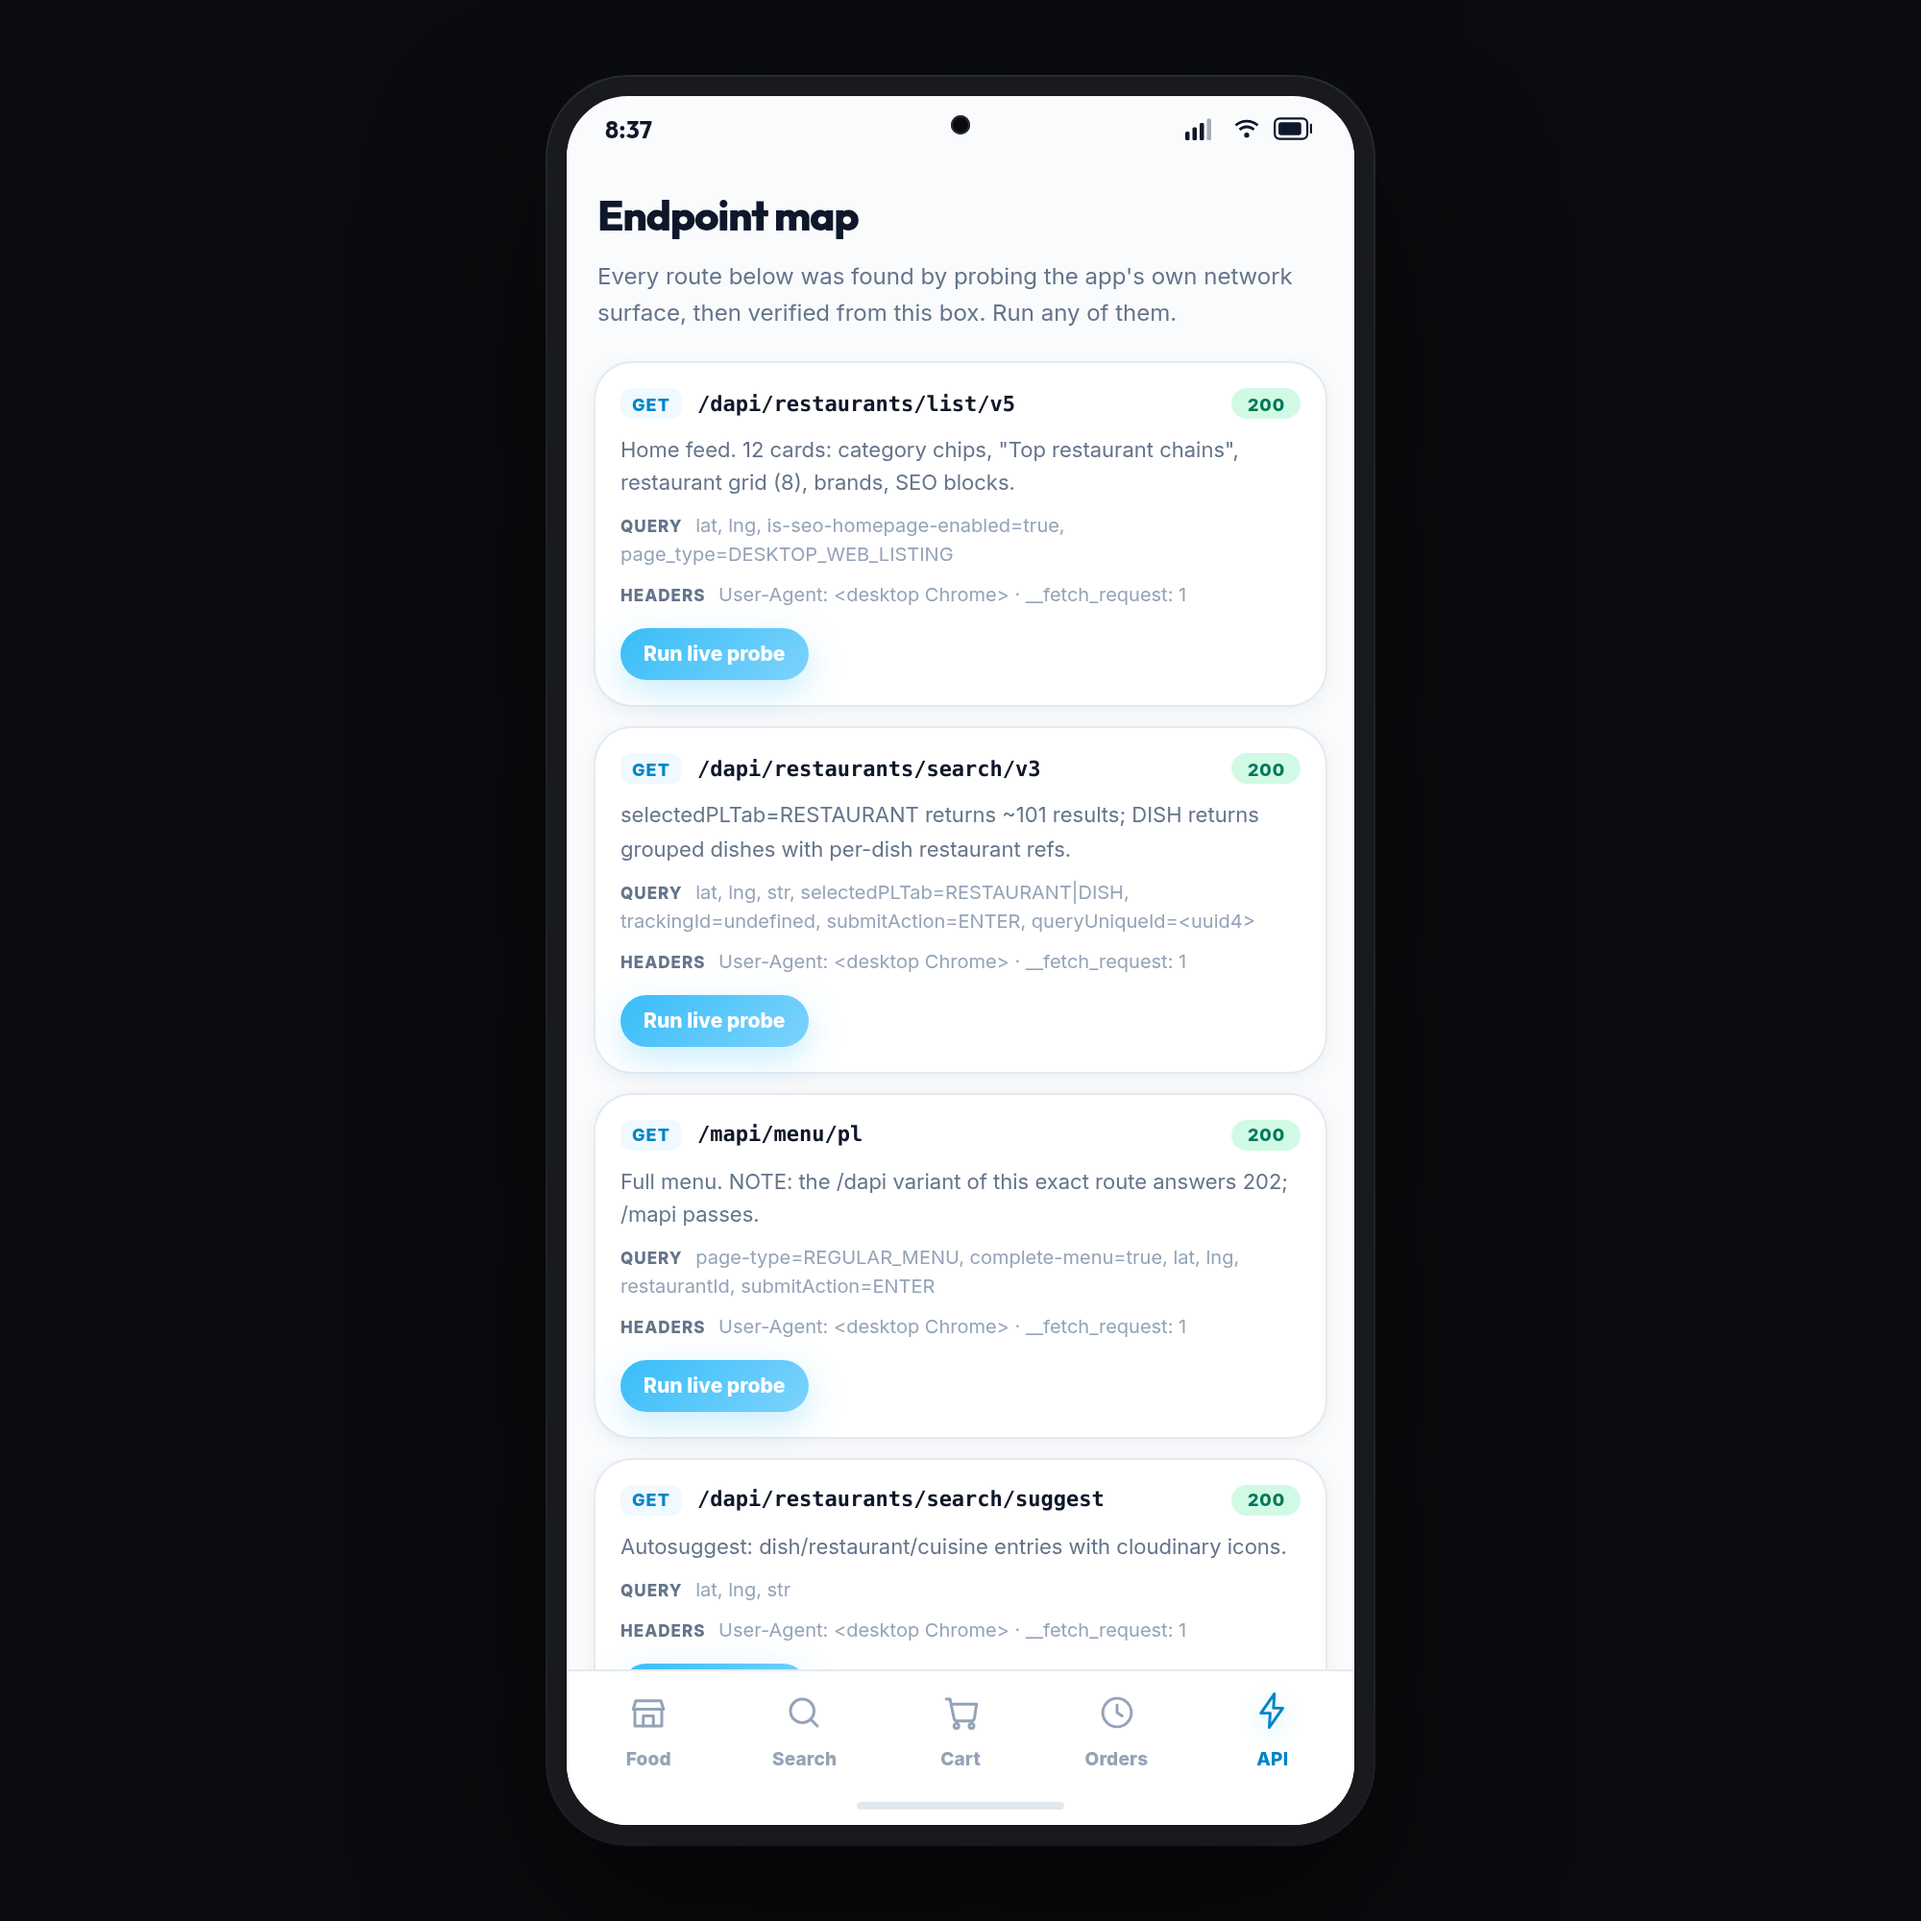
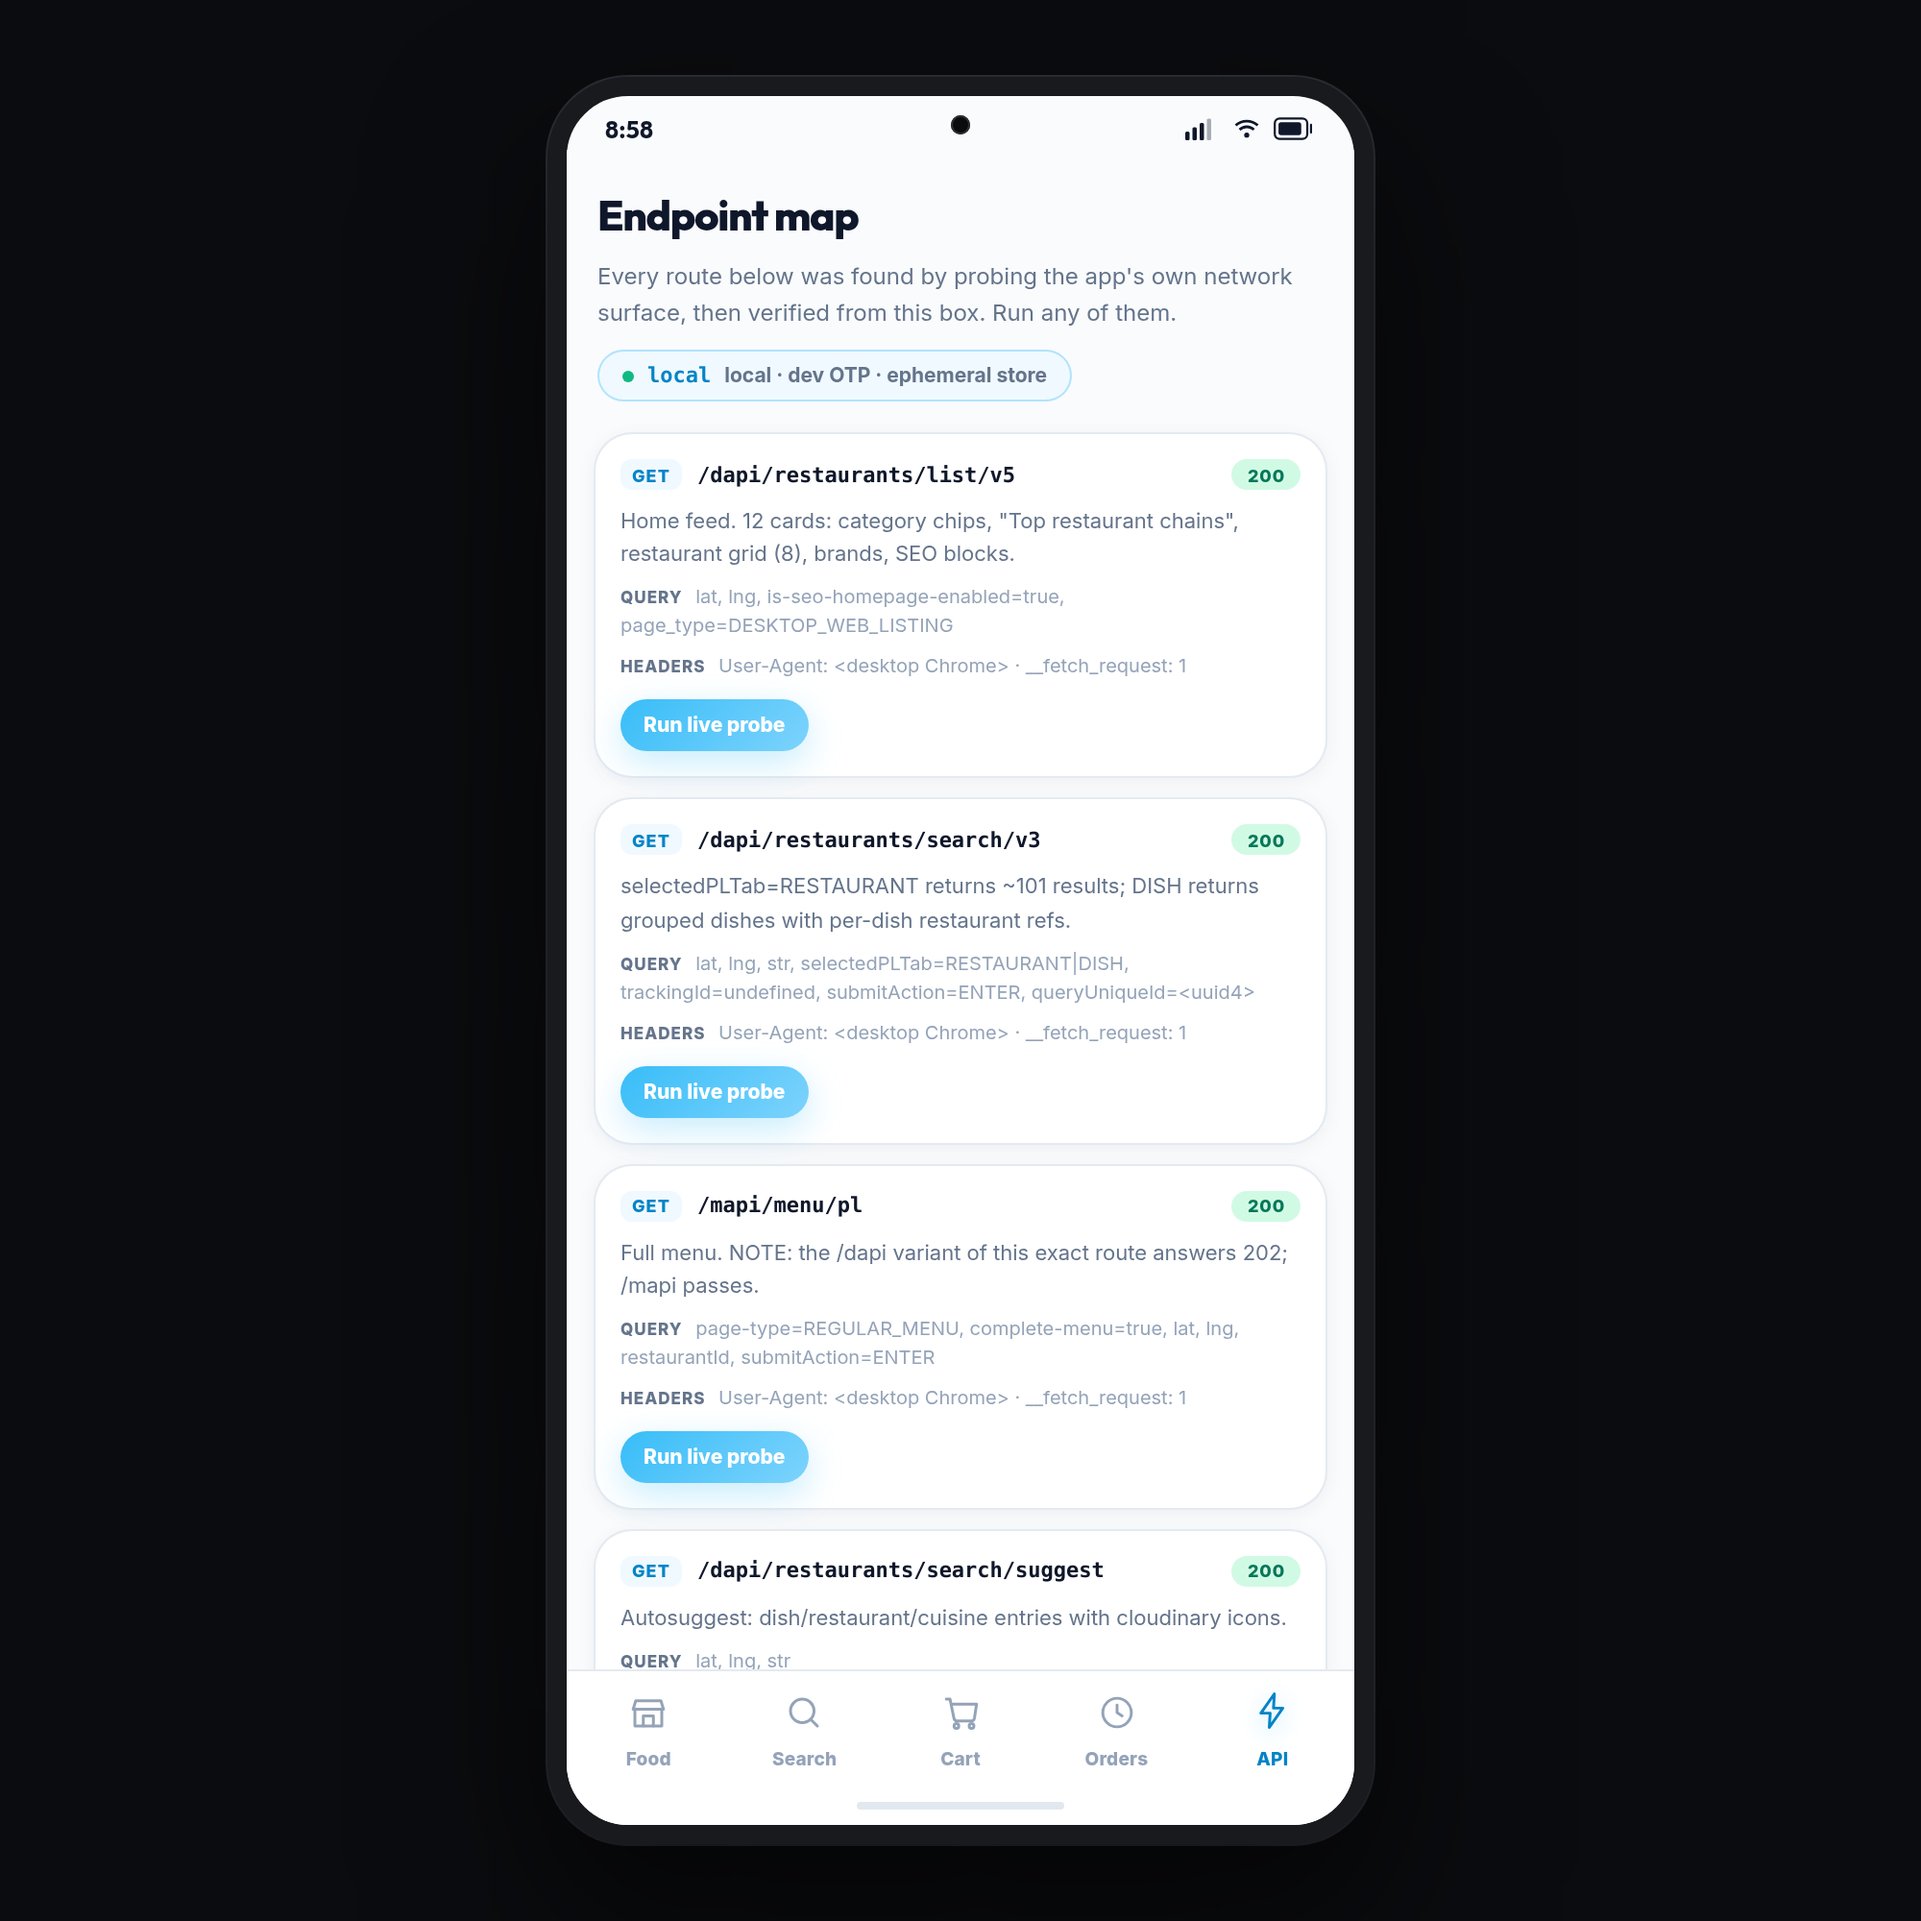
deploy: render blueprint, relocatable auth store, build identity
- render.yaml: web service (not a static site), health check, 1GB disk at /var/data
- DATA_DIR env so the auth store can live on a persistent disk instead of the
  container filesystem that Render wipes on every deploy
- GET /api/health: commit, branch, node, uptime, store path/persistence, env flags
- API tab shows a build chip (commit · branch · disk/ephemeral) so a stale deploy
  is visible instead of guessed at
- fixed: health handler referenced an out-of-scope json() helper and took the
  whole server down on first hit — now writes its own response

Changed region(s): [[0.31, 0.186, 0.682, 0.868], [0.558, 0.341, 0.62, 0.372]]

diff --git a/public/js/views.js b/public/js/views.js
@@ -515,12 +515,22 @@
   /* ---------------------------------------------------------------- API CONSOLE */
   RENDERERS.api = async function () {
     S.tab = 'api';
-    const r = await API.map();
+    const [r, h] = await Promise.all([API.map(), API.health()]);
     const map = (r && r.map) || [];
+    const build = h && h.ok ? h : null;
     const tone = (t) => (t === 'public' ? 'ok' : t === 'blocked' ? 'bad' : 'warn');
     return `<div class="apihead">
       <h1>Endpoint map</h1>
       <p>Every route below was found by probing the app's own network surface, then verified from this box. Run any of them.</p>
+      ${
+        build
+          ? `<div class="buildrow">
+        <span class="bdot"></span>
+        <b>${esc(String(build.commit).slice(0, 7))}</b>
+        <span>${esc(build.branch)}${build.env && build.env.sms ? '' : ' · dev OTP'}${build.authStore && build.authStore.persistent ? ' · disk' : ' · ephemeral store'}</span>
+      </div>`
+          : '<div class="buildrow bad"><span class="bdot"></span><b>no /api/health</b><span>this host is not running server.js</span></div>'
+      }
     </div>
     <div class="apilist">
       ${map

diff --git a/server.js b/server.js
@@ -484,6 +484,29 @@ const MIME = {
 
 function serveStatic(req, res) {
   let rel = decodeURIComponent(req.url.split('?')[0]);
+  /* health: tells you exactly which build the host is running */
+  if (rel === '/api/health') {
+    const A = require('./auth.js');
+    const info = A.storeInfo ? A.storeInfo() : {};
+    const body = JSON.stringify({
+      ok: true,
+      app: 'swiggy-live',
+      commit: process.env.RENDER_GIT_COMMIT || process.env.GIT_COMMIT || 'local',
+      branch: process.env.RENDER_GIT_BRANCH || 'local',
+      node: process.version,
+      uptime: Math.round(process.uptime()),
+      authStore: info,
+      env: {
+        sms: !!(process.env.SMS_WEBHOOK_URL),
+        devMode: process.env.AUTH_DEV_MODE !== '0',
+        dataDir: process.env.DATA_DIR || null,
+        port: PORT,
+      },
+    });
+    res.writeHead(200, { 'Content-Type': 'application/json; charset=utf-8', 'Cache-Control': 'no-store' });
+    return res.end(body);
+  }
+
   if (rel === '/') rel = '/index.html';
   const file = path.join(ROOT, path.normalize(rel).replace(/^(\.\.[/\\])+/, ''));
   if (!file.startsWith(ROOT)) {

diff --git a/public/css/app.css b/public/css/app.css
@@ -855,3 +855,14 @@ img { display: block; }
 .keyrow b { display: block; font-family: var(--font-head); font-size: 12.5px; font-weight: 800; }
 .keyrow span { font-size: 10.5px; color: var(--faint); }
 .keyrow .revoke { font-size: 10.5px; font-weight: 900; color: var(--red-ink); background: var(--red-soft); padding: 5px 10px; border-radius: var(--r-full); }
+
+/* build identity chip on the API tab */
+.buildrow {
+  display: inline-flex; align-items: center; gap: 7px; margin-top: 10px; padding: 6px 12px;
+  border-radius: var(--r-full); background: var(--bg-active); border: 1px solid rgba(56,189,248,.35);
+  font-size: 10.5px; font-weight: 700; color: var(--muted);
+}
+.buildrow b { font-family: ui-monospace, Menlo, monospace; font-size: 11px; color: var(--blue-deep); }
+.buildrow .bdot { width: 6px; height: 6px; border-radius: 99px; background: var(--green); }
+.buildrow.bad { background: var(--red-soft); border-color: rgba(255,77,77,.35); }
+.buildrow.bad .bdot { background: var(--red); }

diff --git a/auth.js b/auth.js
@@ -15,7 +15,8 @@ const crypto = require('crypto');
 const fs = require('fs');
 const path = require('path');
 
-const DATA_DIR = path.join(__dirname, 'data');
+/* on Render a persistent disk mounts at /var/data, so the store must be relocatable */
+const DATA_DIR = process.env.DATA_DIR ? path.resolve(process.env.DATA_DIR) : path.join(__dirname, 'data');
 const STORE = path.join(DATA_DIR, 'auth.json');
 
 const OTP_TTL_MS = 5 * 60 * 1000;
@@ -36,6 +37,11 @@ try {
 } catch (e) {}
 
 let flushT;
+function storeInfo() {
+  const persistent = !!process.env.DATA_DIR;
+  return { path: STORE, persistent, exists: fs.existsSync(STORE) };
+}
+
 function persist() {
   clearTimeout(flushT);
   flushT = setTimeout(() => {
@@ -340,4 +346,5 @@ function currentUser(req) {
   return db.users[sess.phone] || { phone: sess.phone };
 }
 
-module.exports = { handle, currentUser, DEV_MODE };
+module.exports = {
+  storeInfo, handle, currentUser, DEV_MODE };

diff --git a/public/js/core.js b/public/js/core.js
@@ -113,6 +113,7 @@ const Core = (function () {
     logout: () => post('/api/auth/logout', {}),
     keyLogin: (key) => post('/api/auth/key/login', { key }),
     keys: () => api('/api/auth/keys', { ttl: 0 }),
+    health: () => api('/api/health', { ttl: 0 }),
     revokeKey: (id) => post('/api/auth/key/revoke', { id }),
   };
 
